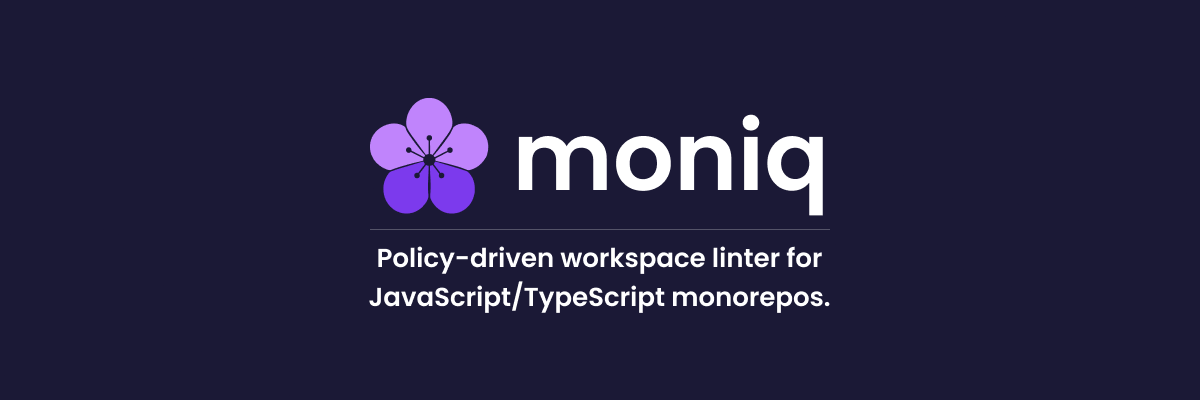
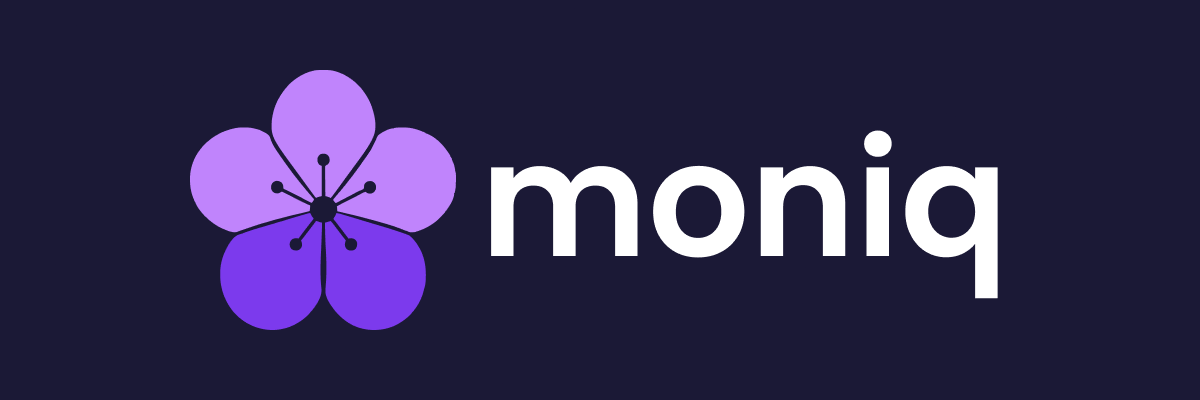
refactor: use moniq.config.* wildcard, drop redundant tsdown entry, clean up internals (#24)
* refactor: use moniq.config.* wildcard, drop redundant tsdown entry, clean up internals

Use `moniq.config.*` consistently in docs and messages instead of listing
extensions. Remove `entry: ["src/index.ts"]` from tsdown configs (default).
Strip explicit return types from internal functions where TS can infer.
Add lint-staged to cli and moniq packages. Simplify first config example by
omitting defineConfig wrapper. Bump pnpm to 11.17.0.

* fix: update test regex for moniq.config.* error message

Changed region(s): [[0.1542, 0.18, 0.8325, 0.84]]

diff --git a/packages/cli/src/formatters/sarif.ts b/packages/cli/src/formatters/sarif.ts
@@ -36,12 +36,6 @@ interface SarifLocation {
   };
 }
 
-interface SarifLog {
-  $schema: string;
-  runs: SarifRun[];
-  version: "2.1.0";
-}
-
 interface SarifReplacement {
   deletedRegion: {
     endColumn: number;
@@ -69,18 +63,6 @@ interface SarifRule {
   name?: string;
   properties?: Record<string, unknown>;
   shortDescription?: { text: string };
-}
-
-interface SarifRun {
-  artifacts?: SarifArtifact[];
-  results: SarifResult[];
-  tool: {
-    driver: {
-      informationUri?: string;
-      name: string;
-      rules?: SarifRule[];
-    };
-  };
 }
 
 export const sarifFormatter: Formatter = {
@@ -167,7 +149,7 @@ function buildResults(
   return diagnostics.map((d) => buildResult(d, rules, artifacts));
 }
 
-function buildSarifLog(report: Report): SarifLog {
+function buildSarifLog(report: Report) {
   const rules = deduplicateRules(report.results);
   const artifacts = collectArtifacts(report.results);
   const results = buildResults(report.results, rules, artifacts);
@@ -192,7 +174,7 @@ function buildSarifLog(report: Report): SarifLog {
   };
 }
 
-function collectArtifacts(diagnostics: Diagnostic[]): SarifArtifact[] {
+function collectArtifacts(diagnostics: Diagnostic[]) {
   const seen = new Map<string, SarifArtifact>();
 
   for (const d of diagnostics) {

diff --git a/packages/cli/src/format.ts b/packages/cli/src/format.ts
@@ -1,6 +1,6 @@
 import { type Report } from "@moniq/core";
 
-import type { Format, Formatter } from "./formatters/types.js";
+import type { Format } from "./formatters/types.js";
 
 import {
   jsonFormatter,
@@ -19,7 +19,7 @@ export function formatReport(report: Report, options?: FormatOptions): string {
   return formatter.format(report, { isDryRun: options?.isDryRun });
 }
 
-function getFormatter(format: Format): Formatter {
+function getFormatter(format: Format) {
   if (format === "json") return jsonFormatter;
   if (format === "sarif") return sarifFormatter;
   return prettyFormatter;

diff --git a/packages/cli/src/commands/doctor.ts b/packages/cli/src/commands/doctor.ts
@@ -60,12 +60,12 @@ export async function doctor(): Promise<void> {
   try {
     await loadConfig(root);
     issues.push({
-      message: `moniq.config file found at workspace root.`,
+      message: `moniq.config.* file found at workspace root.`,
       severity: "info",
     });
   } catch (error) {
     issues.push({
-      message: `Failed to load moniq.config: ${String(error)}`,
+      message: `Failed to load moniq.config.*: ${String(error)}`,
       severity: "error",
     });
   }

diff --git a/packages/cli/src/index.ts b/packages/cli/src/index.ts
@@ -55,7 +55,7 @@ cli.command("doctor", "Detect configuration mistakes").action(async () => {
 });
 
 cli
-  .command("init", "Scaffold a moniq.config file in the current directory")
+  .command("init", "Scaffold a moniq.config.* file in the current directory")
   .option(
     "--lang <type>",
     "Config language: ts, js, mjs, cjs, mts, cts (default: auto-detected)",

diff --git a/packages/config/src/index.ts b/packages/config/src/index.ts
@@ -71,7 +71,7 @@ export async function loadConfig(root: string): Promise<UserConfig> {
 
   if (found.length > 1) {
     throw new Error(
-      `Multiple moniq.config files found in ${root}: ${found.join(", ")}. Remove all but one.`,
+      `Multiple moniq.config.* files found in ${root}: ${found.join(", ")}. Remove all but one.`,
     );
   }
 

diff --git a/packages/cli/src/commands/check.ts b/packages/cli/src/commands/check.ts
@@ -20,7 +20,7 @@ export async function check(options: CheckOptions): Promise<Report> {
   try {
     config = await loadConfig(root);
   } catch (error) {
-    throw new Error(`Failed to load moniq.config: ${String(error)}`, {
+    throw new Error(`Failed to load moniq.config.*: ${String(error)}`, {
       cause: error,
     });
   }

diff --git a/packages/config/src/index.test.ts b/packages/config/src/index.test.ts
@@ -132,7 +132,7 @@ describe("loadConfig", () => {
     await writeConfig(directory, "export default {};", ".js");
 
     await expect(loadConfig(directory)).rejects.toThrow(
-      /Multiple moniq\.config files found/,
+      /Multiple moniq\.config\.\* files found/,
     );
     await rm(directory, { recursive: true });
   });

diff --git a/packages/cli/tsdown.config.ts b/packages/cli/tsdown.config.ts
@@ -1,6 +1,5 @@
 import { defineConfig } from "tsdown";
 
 export default defineConfig({
-  entry: ["src/index.ts"],
   outExtensions: () => ({ js: ".js" }),
 });

diff --git a/packages/config/tsdown.config.ts b/packages/config/tsdown.config.ts
@@ -1,6 +1,5 @@
 import { defineConfig } from "tsdown";
 
 export default defineConfig({
-  entry: ["src/index.ts"],
   outExtensions: () => ({ js: ".js" }),
 });

diff --git a/packages/core/tsdown.config.ts b/packages/core/tsdown.config.ts
@@ -1,6 +1,5 @@
 import { defineConfig } from "tsdown";
 
 export default defineConfig({
-  entry: ["src/index.ts"],
   outExtensions: () => ({ js: ".js" }),
 });

diff --git a/README.md b/README.md
@@ -4,7 +4,7 @@
   <img src="https://raw.githubusercontent.com/udohjeremiah/moniq/main/assets/banner.png" alt="moniq">
 </p>
 
-**Define workspace policies once. Keep every package consistent.**
+**Policy-driven workspace linter for JavaScript/TypeScript monorepos.**
 
 <img alt="NPM Version" src="https://img.shields.io/npm/v/%40udohjeremiah%2Fmoniq?style=for-the-badge&logo=npm&logoColor=white" height="25">
 <img alt="NPM Downloads" src="https://img.shields.io/npm/dm/%40udohjeremiah%2Fmoniq?style=for-the-badge&logo=npm&logoColor=white" height="25">
@@ -34,8 +34,8 @@ deno add -D npm:@udohjeremiah/moniq
 
 ## Quick Start
 
-Create a `moniq.config.{ts,js,mjs,cjs,mts,cts}` at the root of your monorepo and
-configure your policies:
+Create a `moniq.config.*` at the root of your monorepo and configure your
+policies:
 
 ```ts
 import { defineConfig, bin } from "@udohjeremiah/moniq";
@@ -69,17 +69,16 @@ deno run -A npm:@udohjeremiah/moniq check
 
 ## CLI
 
-| Command        | Description                                | Options                       |
-| -------------- | ------------------------------------------ | ----------------------------- |
-| `moniq init`   | Install and scaffold a `moniq.config` file | `--lang <type>`               |
-| `moniq check`  | Run policy checks                          | `--format <fmt>`              |
-| `moniq fix`    | Run policy checks and apply autofixes      | `--dry-run`, `--format <fmt>` |
-| `moniq doctor` | Detect configuration mistakes              | —                             |
+| Command        | Description                                  | Options                       |
+| -------------- | -------------------------------------------- | ----------------------------- |
+| `moniq init`   | Install and scaffold a `moniq.config.*` file | `--lang <type>`               |
+| `moniq check`  | Run policy checks                            | `--format <fmt>`              |
+| `moniq fix`    | Run policy checks and apply autofixes        | `--dry-run`, `--format <fmt>` |
+| `moniq doctor` | Detect configuration mistakes                | —                             |
 
 ## Configuration
 
-Configuration is done via a `moniq.config.{ts,js,mjs,cjs,mts,cts}` file at your
-workspace root.
+Configuration is done via a `moniq.config.*` file at your workspace root.
 
 ```ts
 import { defineConfig, bin } from "@udohjeremiah/moniq";
@@ -102,8 +101,9 @@ Full documentation is available at [udohjeremiah.github.io/moniq](https://udohje
 
 ## Contributing
 
-See [CONTRIBUTING.md](https://github.com/udohjeremiah/moniq/blob/main/CONTRIBUTING.md) for detailed instructions on setting up
-the project, development workflow, pull request process, and release process.
+See [CONTRIBUTING.md](https://github.com/udohjeremiah/moniq/blob/main/CONTRIBUTING.md)
+for detailed instructions on setting up the project, development workflow, pull
+request process, and release process.
 
 ## License
 

diff --git a/packages/docs/guide/cli.md b/packages/docs/guide/cli.md
@@ -10,9 +10,9 @@ moniq init [options]
 
 ### Options
 
-| Option          | Description                                                                                                 |
-| --------------- | ----------------------------------------------------------------------------------------------------------- |
-| `--lang <type>` | Configuration language: `ts`, `js`, `mjs`, `cjs`, `mts`, or `cts`. Defaults to the detected workspace type. |
+| Option          | Description                                                                                              |
+| --------------- | -------------------------------------------------------------------------------------------------------- |
+| `--lang <type>` | Configuration language for the generated `moniq.config.*` file. Defaults to the detected workspace type. |
 
 ### Notes
 
